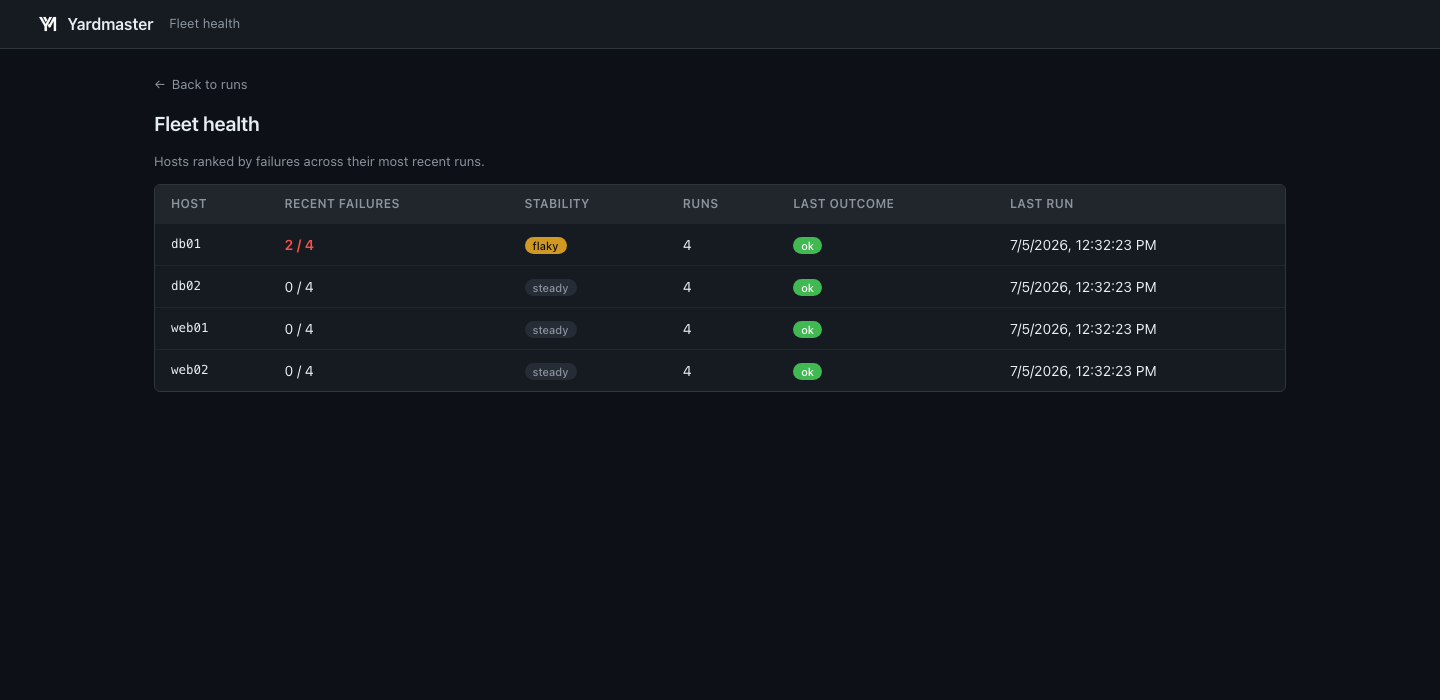
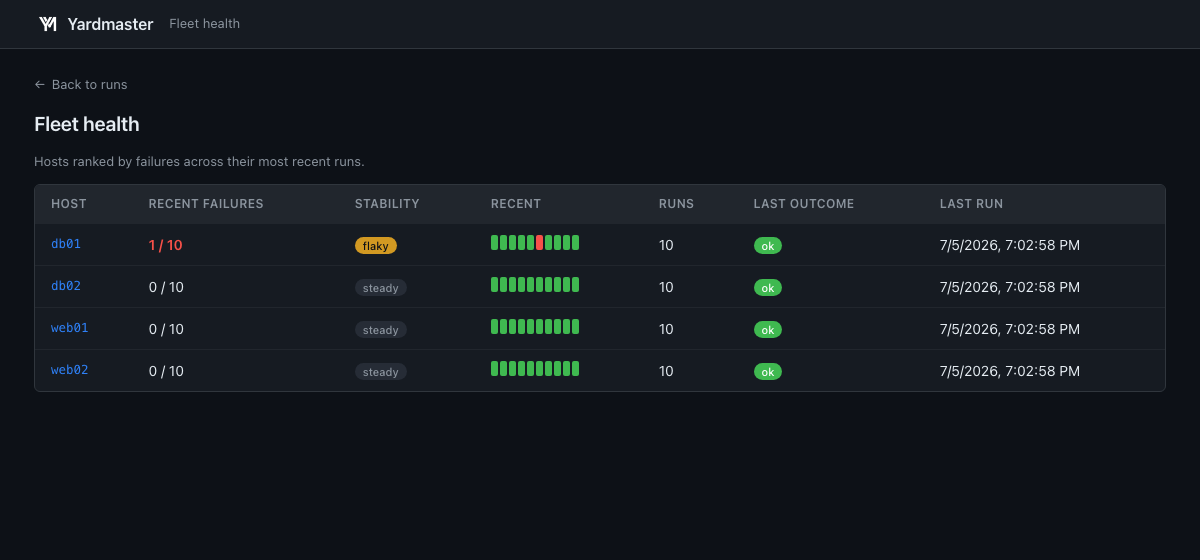
Show a live run as a GIF and tighten the feature table

diff --git a/README.md b/README.md
@@ -42,13 +42,15 @@ bet: a run is structured data, so store it and show it that way.
 
 ## See it
 
-A finished two-shard split, merged back into one host matrix with a per-task timeline:
+A two-shard split executing live: the merged host matrix fills in as hosts report, one shard
+fails on the broken database host while the other lands clean, and the timeline draws itself:
 
-<img src="assets/screenshot-run.png" alt="Run detail with host matrix and timeline" width="100%">
+<img src="assets/demo-run.gif" alt="A split run executing live in the host matrix" width="100%">
 
-Fleet health across recent runs, with flaky hosts called out:
+Fleet health after a few runs: failure counts, flaky-host detection, and outcome sparklines per
+host, remembered across every run:
 
-<img src="assets/screenshot-fleet.png" alt="Fleet health with flaky detection" width="100%">
+<img src="assets/screenshot-fleet.png" alt="Fleet health with flaky detection and sparklines" width="100%">
 
 ## Quick start
 
@@ -65,33 +67,18 @@ Add `"shards": 4` to split it. Ansible is the only runtime dependency: `ansible-
 
 ## What it does today
 
-- Runs. Submit over HTTP, execute ansible-playbook, capture both the human log and a structured
-  event stream through an embedded callback plugin.
-- Live view. Server-Sent Events stream events and log chunks as the run executes; the UI paints
-  the matrix in real time.
-- Drill-down. Message, stdout, stderr, return code, and diff for any host and task in the run.
-- Splits. `shards` on a run partitions the inventory, runs the slices through a bounded worker
-  pool, rolls their status up to one parent, and merges every shard's events into one matrix.
-  Placement uses each host's average duration over its recent runs, so a slow host stops
-  dragging a whole shard; hosts with no history balance by count.
-- Shard retry. Retry a finished split and only its failed shards run again, with their exact
-  host groups, linked back to the original run.
-- Pipelines. Playbook steps under one parent run, in order or as a dependency graph: declare
-  depends_on and independent branches run in parallel, a failed step skips what depends on it,
-  and continue_on_failure lets downstream proceed anyway. Give a step retries and it re-runs
-  until it succeeds or the budget is spent, every attempt kept as its own run. Values a step
-  publishes with set_stats flow to the steps that depend on it as extra vars, so a build step
-  can hand its artifact version to the deploy step. Each step is a full run with its own matrix
-  and history.
-- Scheduling. Cron schedules fire runs, splits, or pipelines and every fire keeps full
-  structured history.
-- Fleet health. Per-host outcomes persist at the end of every run, and the fleet view ranks
-  hosts by failures across their recent runs and flags flaky hosts, the ones that flip between
-  failing and passing instead of breaking cleanly. Every host has a queryable run history, and
-  per-task duration trends show which tasks are getting slower.
-- Recovery. Cancellation stops a run, a whole split, or a pipeline mid-flight and records it as
-  canceled, not failed. A server that dies mid-run marks its orphans interrupted on the next
-  start.
+| Capability   | What you get                                                                    |
+|--------------|---------------------------------------------------------------------------------|
+| Runs         | Submit over HTTP, real ansible-playbook underneath, human log plus a structured event stream, per-task drill-down with stdout, stderr, rc, and diff |
+| Live view    | Server-Sent Events paint the host matrix and log as the run executes            |
+| Splits       | Shard an inventory across parallel slices, merged back into one matrix; hosts packed by measured duration from past runs |
+| Shard retry  | Retry a finished split and only its failed shards run again, lineage recorded   |
+| Pipelines    | Ordered steps or a dependency graph with parallel branches; failures skip exactly their dependents, per-step retry budgets, set_stats outputs flow to dependent steps as extra vars |
+| Workers      | Point `yardmaster worker` at the same database and it competes for queued runs; leases, heartbeats, and a janitor make dead workers safe |
+| Scheduling   | Cron schedules fire runs, splits, or pipelines with full history per fire       |
+| Fleet memory | Failure rankings, flaky-host detection, outcome sparklines, per-host history, task duration trends, all from persisted structured events |
+| Recovery     | Cancellation across processes recorded as canceled, orphaned runs interrupted by lease expiry, terminal saves retried |
+| Storage      | SQLite out of the box; the same flag takes a PostgreSQL DSN for multi-instance  |
 
 ## HTTP API
 
